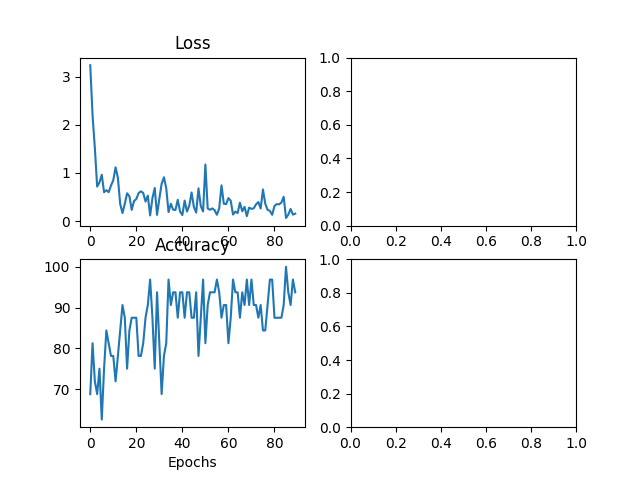
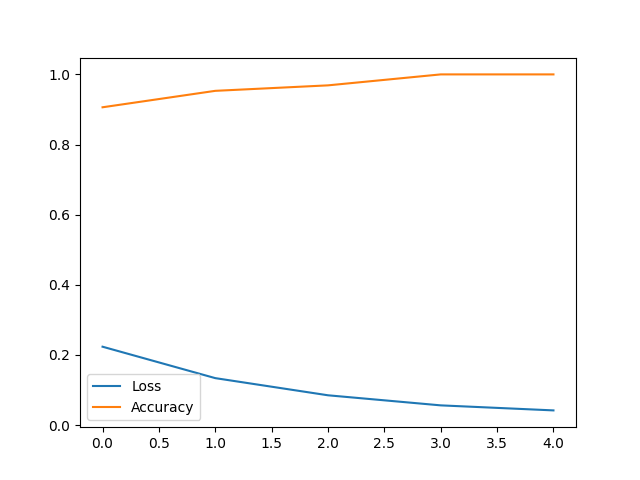
changes

diff --git a/nnn/training.py b/nnn/training.py
@@ -3,46 +3,68 @@ from dlgrad.tensor import Tensor
 from dlgrad.graph import display_graph
 from dlgrad.afu import softmax
 import numpy as np
-from datasets.fetch_mnist import fetch_mnist
 from sklearn.metrics import accuracy_score
+import matplotlib.pyplot as plt
+from tqdm import trange
 
-lo_val = 0
 ff = True
-a = []
 loss_graph = []
 acc_graph = []
+pred = 0
+acc = 0
+loss = 0
 
+def train(model, train_loader, x_train, y_train, steps, BS, flag=False, lr=1e-3):
+    global ff, acc_graph, loss_graph, pred, glo_acc, glo_loss
 
-def train(model, x_train, y_train, flag, epoch, lr=1e-3):
-    global lo_val, ff, acc_graph, loss_graph
+    # for _ in (pbar := tqdm(range(steps))):
+    for _ in (pbar := trange(steps)):
+        x_batch_train, y_batch_train = train_loader.get_batch_data(x_train, y_train, BS)
+        
+        x = model.forward(x_batch_train, flag)
+        pred = x
+    
+        loss = crossentropy(x, y_batch_train, flag)
+        glo_loss = loss
+        
+        flag = False
+    
+        if ff: 
+            display_graph()
+            ff = False
 
-    x = model.forward(x_train, flag)
-    pred = x
-   
-    loss = crossentropy(x, y_train, flag)
-   
-    if ff: 
-        display_graph()
-        ff = False
-    lo_val += 1
+        Tensor.zero_grad()
 
-    loss.backward()
+        loss.backward()
 
-    for parameters in Tensor.get_parameters():
-        parameters.tensor = parameters.tensor - (lr*parameters.grad)
+        for parameters in Tensor.get_parameters():
+            parameters.tensor = parameters.tensor - (lr*parameters.grad)
 
-    if lo_val % 100 == 0:
-        acc = accuracy_score(y_train.tensor.T, np.argmax(softmax(pred), axis=1))
-        acc_graph.append(acc*100)
-        loss_graph.append(loss.tensor)
+        Tensor.save_for_backward.clear()
 
-    # Calculate accuracy and loss 
-    if lo_val == 1874:
-        acc = accuracy_score(y_train.tensor.T, np.argmax(softmax(pred), axis=1))
-        print("true")
-        print(y_train.tensor.T)
-        print("pred")
-        print(np.argmax(softmax(pred), axis=1))
-        print(f"acc {acc*100}%")
-        print(f"loss {loss.tensor}")
-        lo_val = 0
+        glo_acc = accuracy_score(y_batch_train.tensor.T, np.argmax(softmax(pred), axis=1))
+        pbar.set_postfix_str(f"loss {glo_loss.tensor} accuracy {glo_acc*100}%")
+
+    acc_graph.append(glo_acc)
+    loss_graph.append(glo_loss.tensor)
+        
+    # print("pred")
+    # print(np.argmax(softmax(pred), axis=1))
+
+def plot_metrics():
+    global loss_graph, acc_graph
+
+    fig, ax = plt.subplots()
+    ax.plot(loss_graph, label='Loss')
+    ax.plot(acc_graph, label='Accuracy')
+    ax.legend()
+    plt.close(fig)
+    fig.savefig("Metrics.png")
+
+def test(model, x_test, y_test):
+    x = model.forward(x_test)
+    loss = crossentropy(x, y_test)
+    print()
+    print(f"Test loss : {loss.tensor}")
+    acc = accuracy_score(y_test.tensor.T, np.argmax(softmax(x), axis=1))
+    print(f"Test accuracy : {acc*100}%")

diff --git a/examples/test.py b/examples/test.py
@@ -5,23 +5,20 @@ os.chdir(r"/mnt/c/Users/navne/Documents/vs_code/dlgrad_main/")
 sys.path.append(os.getcwd())
 from dlgrad.tensor import Tensor
 from dlgrad.nn import MLP
-from datasets.fetch_mnist import fetch_mnist
+from datasets.fetch_mnist import MNIST 
 from dlgrad.afu import ReLU, softmax 
-from nnn.training import train, acc_graph, loss_graph
+from nnn.training import train, test, plot_metrics 
 from dlgrad.graph import display_graph 
 import numpy as np
 import matplotlib.pyplot as plt
 
 class Net:
     def __init__(self) -> None:
-        # self.x_train, self.y_train, self.x_test, self.y_test = fetch_mnist()
-        self.batch_size = 32
-
         self.fc1 = MLP(28*28, 64, bias=True)
         self.fc2 = MLP(64, 64, bias=True)
         self.fc3 = MLP(64, 10, bias=True)
 
-    def forward(self, x_train, flag):
+    def forward(self, x_train, flag=False):
         x = self.fc1(x_train, flag)
         x = ReLU(x, flag)
         x = self.fc2(x, flag)
@@ -30,40 +27,32 @@ class Net:
         # x = softmax(x)
         return x
 
+# TODO: remove flag
 def main():
-    epochs = 5 
-    x_train, y_train, x_test, y_test = fetch_mnist()
-    BS = 32
+    epochs = 5
+    BS = 128
+    lr=1e-3
     flag = True
+    
     net = Net()
 
     for epoch in range(epochs):
-        print(f"epoch {epoch}")
-        idx = 0
-        for _ in range(int(x_train.shape[0]/BS)):
-            X_train = x_train[idx:idx+BS]
-            Y_train = y_train[idx:idx+BS]
-            idx += BS
-            train(net, X_train, Y_train, flag, epoch)
-            flag = False
-            for parameters in Tensor.save_for_backward:
-                parameters.grad = np.zeros(parameters.shape) 
+        print(f"epoch {epoch+1}")
+        
+        mnist_dataset = MNIST()
+        x_train, y_train = mnist_dataset.get_train_data()
+        steps = x_train.shape[0]//BS
 
-            Tensor.save_for_backward.clear()
+        train(net, mnist_dataset, x_train, y_train, steps, BS, flag, lr)
 
-    figure, axis = plt.subplots(2, 2)
-  
-    # axis[0, 0].plot(range(epochs), loss_graph)
-    axis[0, 0].plot(loss_graph)
-    axis[0, 0].set_title("Loss")
-    
-    # axis[1, 0].plot(range(epochs), acc_graph)
-    axis[1, 0].plot(acc_graph)
-    axis[1, 0].set_title("Accuracy")
-    axis[1, 0].set_xlabel("Epochs")
-  
-    plt.close(figure)
-    figure.savefig("Metrics.png")
+        flag = False
+    print("plotting metrics")   
+    plot_metrics()
+    print("finished")
+
+    x_test, y_test = mnist_dataset.get_test_data()
+    test(net, x_test, y_test)
+
 
 if __name__ == '__main__':
     main()

diff --git a/datasets/fetch_mnist.py b/datasets/fetch_mnist.py
@@ -2,21 +2,34 @@ import idx2numpy
 import numpy as np
 from dlgrad.tensor import Tensor 
 
-def fetch_mnist():
-    x_train = idx2numpy.convert_from_file(r'datasets/mnist/train-images-idx3-ubyte')
-    x_train = x_train/255.0
-    x_train = Tensor(x_train.reshape((-1, 28*28)))
+class MNIST:
+    def __init__(self):
+        self.idx = 0
 
-    y_train = idx2numpy.convert_from_file(r'datasets/mnist/train-labels-idx1-ubyte')
-    y_train = Tensor(y_train)
+        self.x_train = idx2numpy.convert_from_file(r'datasets/mnist/train-images-idx3-ubyte')
+        self.x_train = self.x_train/255.0
+        self.x_train = self.x_train.reshape((-1, 28*28))
 
-    x_test = idx2numpy.convert_from_file(r'datasets/mnist/t10k-images-idx3-ubyte')
-    x_test = x_test/255.0
-    x_test = Tensor(x_test.reshape((-1, 28*28)))
+        self.y_train = idx2numpy.convert_from_file(r'datasets/mnist/train-labels-idx1-ubyte')
+        self.y_train = self.y_train
 
-    y_test = idx2numpy.convert_from_file(r'datasets/mnist/t10k-labels-idx1-ubyte')
-    y_test = Tensor(y_test)
+        self.x_test = idx2numpy.convert_from_file(r'datasets/mnist/t10k-images-idx3-ubyte')
+        self.x_test = self.x_test/255.0
+        self.x_test = self.x_test.reshape((-1, 28*28))
 
-    return x_train, y_train, x_test, y_test
+        self.y_test = idx2numpy.convert_from_file(r'datasets/mnist/t10k-labels-idx1-ubyte')
+        self.y_test = self.y_test
+
+    def get_train_data(self) -> np.ndarray:
+        return self.x_train, self.y_train
+    
+    def get_test_data(self) -> Tensor:
+        return Tensor(self.x_test), Tensor(self.y_test)
+
+    def get_batch_data(self, x_data: np.ndarray, y_data: np.ndarray, BS: int) -> Tensor:
+        x = Tensor(x_data[self.idx:self.idx+BS])
+        y = Tensor(y_data[self.idx:self.idx+BS])
+        self.idx += BS
+        return x, y
 
 

diff --git a/dlgrad/tensor.py b/dlgrad/tensor.py
@@ -36,9 +36,9 @@ class Tensor:
         if flag:
             draw_graph(
                 'add',
-                (output.tensor.shape, 'output', output.grad.shape),
-                (self.tensor.shape, 'input 1', self.grad.shape), 
-                (other.tensor.shape, 'input 2', other.grad.shape)
+                (output.tensor.shape, 'output'),
+                (self.tensor.shape, 'input 1'), 
+                (other.tensor.shape, 'input 2')
             )
             
         def backward():
@@ -59,9 +59,9 @@ class Tensor:
         if flag:
             draw_graph(
                 'matmul',
-                (output.tensor.shape, 'output', output.grad.shape),
-                (self.tensor.shape, 'input 1', self.grad.shape),
-                (other.tensor.shape, 'input 2', other.grad.shape)
+                (output.tensor.shape, 'output'),
+                (self.tensor.shape, 'input 1'),
+                (other.tensor.shape, 'input 2')
             )
 
         def backward():
@@ -86,7 +86,12 @@ class Tensor:
     
     def get_parameters():
         return Tensor.parameters
-
+    
+    @staticmethod
+    def zero_grad():
+        for parameters in Tensor.save_for_backward:
+            parameters.grad = np.zeros(parameters.shape) 
+        
     # Autograd Engine
 
     # As of now I dont see any need for topological sort as others have used it. 

diff --git a/dlgrad/loss.py b/dlgrad/loss.py
@@ -4,8 +4,9 @@ from .tensor import Tensor
 from .graph import draw_graph
 import torch
 from torch import nn
+import warnings
 
-def crossentropy(predictions: Tensor, targets: Tensor, flag):
+def crossentropy(predictions: Tensor, targets: Tensor, flag=False):
     """
     Similar to PyTorch cross entropy.
     First log softmax is done and then 
@@ -20,15 +21,17 @@ def crossentropy(predictions: Tensor, targets: Tensor, flag):
     one_hot_labels = np.zeros(predictions.shape)
     one_hot_labels[range(predictions.shape[0]), targets.tensor.T] = 1
 
-    loss = -np.sum(one_hot_labels * np.log(softmax(predictions)))
+    eps = 1e-10
+    loss = -np.sum(one_hot_labels * np.log(softmax(predictions)+eps))
  
+    # loss = -np.sum(one_hot_labels * np.log(softmax(predictions)))
     out = Tensor(loss/targets.shape[0])
 
     if flag:
         draw_graph(
             'Cross-Entropy Loss',
-            (out.tensor.shape, 'Loss', out.grad.shape),
-            (predictions.shape, 'Predictions', predictions.grad.shape)
+            (out.tensor.shape, 'Loss'),
+            (predictions.shape, 'Predictions')
         )
 
     # dL/dpreddictions = predictions-true(one-hot)

diff --git a/dlgrad/afu.py b/dlgrad/afu.py
@@ -11,8 +11,8 @@ def ReLU(matrix, flag):
     if flag:
         draw_graph(
             'Relu',
-            (output.tensor.shape, 'output', output.grad.shape),
-            (matrix.tensor.shape, 'input', matrix.grad.shape)
+            (output.tensor.shape, 'output'),
+            (matrix.tensor.shape, 'input')
         )
 
     def backward():
@@ -29,8 +29,11 @@ def softmax(matrix):
     We are subtracting each row with the maximum element, a kind of normalization,
     because the exp can get huge.
     """
-    max_of_row = np.amax(matrix.tensor, axis=1, keepdims=True)
-    matrix_exp = np.exp(matrix.tensor-max_of_row)
-    matrix_sum = np.sum(matrix_exp, axis=1, keepdims=True)
-    result = matrix_exp / matrix_sum
+    try:
+        max_of_row = np.amax(matrix.tensor, axis=1, keepdims=True)
+        matrix_exp = np.exp(matrix.tensor-max_of_row)
+        matrix_sum = np.sum(matrix_exp, axis=1, keepdims=True)
+        result = matrix_exp / matrix_sum
+    except RuntimeWarning:
+        print("in softmax")
     return result

diff --git a/dlgrad/graph.py b/dlgrad/graph.py
@@ -67,17 +67,17 @@ def draw_graph(op: str, output: tuple, input1: tuple, input2: tuple=None):
         s.node(str(idx), op)
         idx += 1
 
-        input1, input1_label, input1_grad = (*input1,)
+        input1, input1_label = (*input1,)
         s.node(str(idx), f'<f0> {input1_label}|<f1> {input1}')
         draw_edge_1_op(str(idx), str(idx-1))
         idx += 1
 
-        input2, input2_label, input2_grad = (*input2,)
+        input2, input2_label = (*input2,)
         s.node(str(idx), f'<f0> {input2_label}|<f1> {input2}')
         draw_edge_2_op(str(idx), str(idx-2))
         idx += 1
 
-        output, output_label, output_grad = (*output,)
+        output, output_label = (*output,)
         output_list.append((output, str(idx)))
         s.node(str(idx), f'<f0> {output_label}|<f1> {output}')
         draw_edge_op_output(str(idx-3), str(idx))
